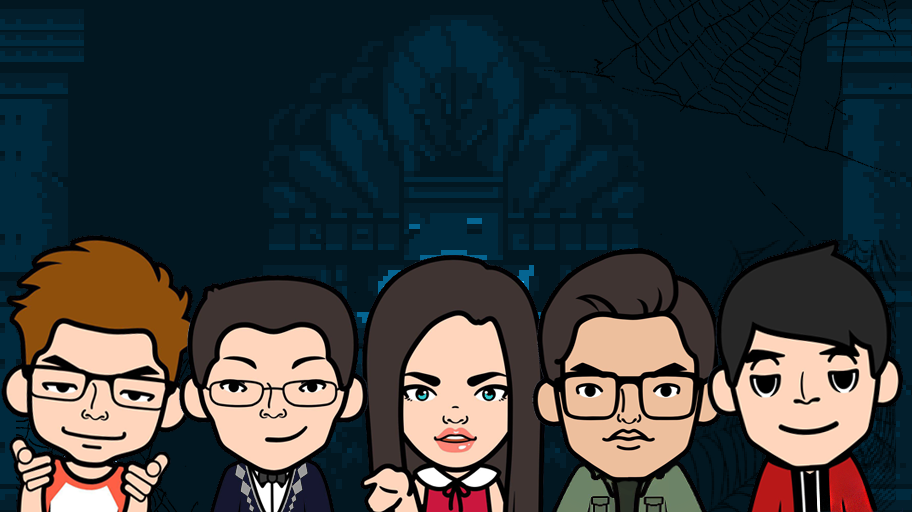
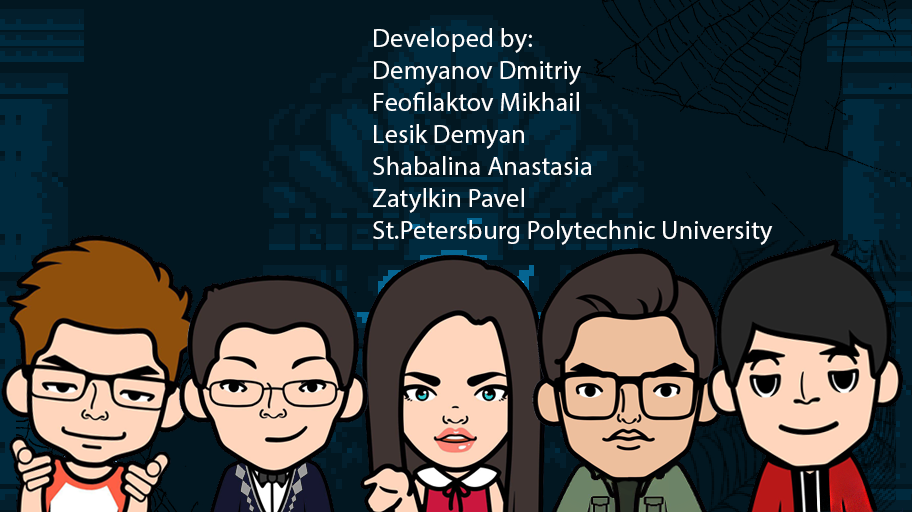
[V1-75] minor: change text in aboutScreen

diff --git a/core/src/com/spbstu/android/game/screens/AboutScreen.java b/core/src/com/spbstu/android/game/screens/AboutScreen.java
@@ -48,7 +48,7 @@ public class AboutScreen extends ScreenAdapter {
                 new TextureRegion(new Texture("Buttons/menu.png"))));
 
         stage.addActor(menuButton);
-        FreeTypeFontGenerator generator = new FreeTypeFontGenerator(Gdx.files.internal("fonts/font.ttf"));
+        /*FreeTypeFontGenerator generator = new FreeTypeFontGenerator(Gdx.files.internal("fonts/font.ttf"));
         FreeTypeFontGenerator.FreeTypeFontParameter parameter = new FreeTypeFontGenerator.FreeTypeFontParameter();
         parameter.size = 38;
         BitmapFont font12 = generator.generateFont(parameter);
@@ -63,7 +63,7 @@ public class AboutScreen extends ScreenAdapter {
                 "Polytechnic University\n" +
                 "May, 2017" , new Label.LabelStyle(font12, Color.WHITE));
         label.setPosition(Gdx.graphics.getWidth()/3f, 2*Gdx.graphics.getHeight()/ 5f);
-        stage.addActor(label);
+        stage.addActor(label);*/
 
         menuButton.setBounds(999*(WIDTH - maxButtonsSize + 7 )/1000f, 99*(HEIGHT - maxButtonsSize +10)/100f, maxButtonsSize * 2 / 3, maxButtonsSize * 2 / 3);
         menuButton.setVisible(true);
